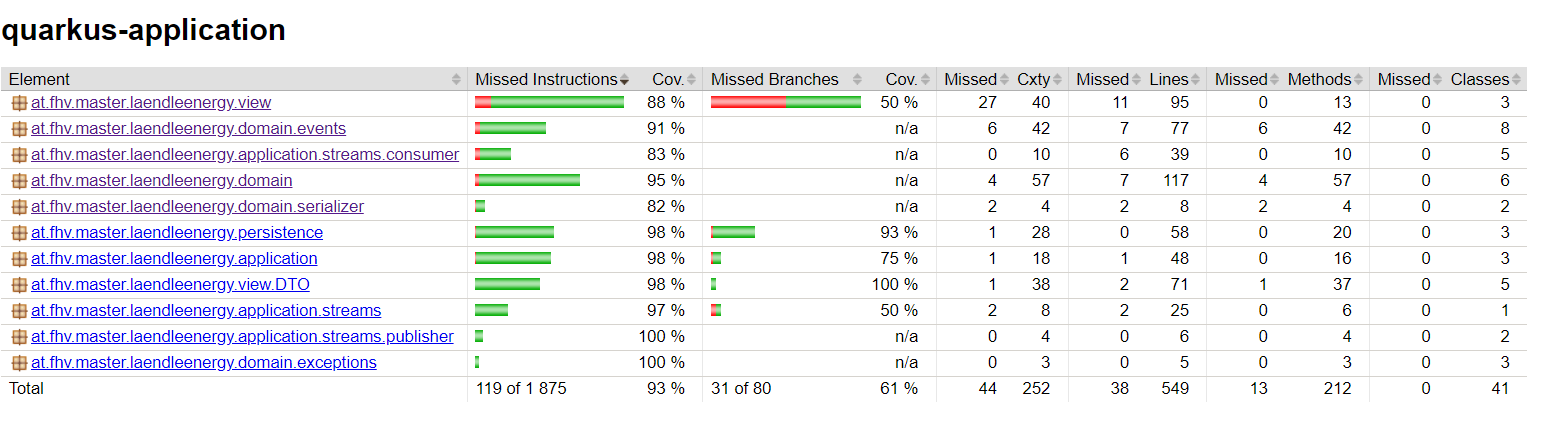
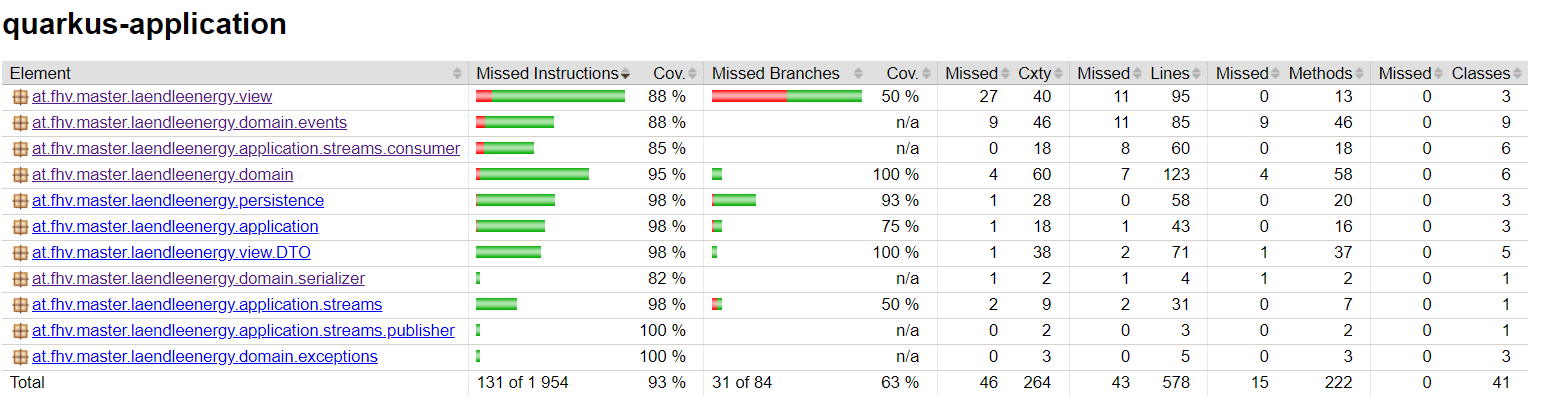
updated test docu

diff --git a/index.md b/index.md
@@ -408,7 +408,7 @@ _Author_: Bianca
 
 #### 2.4.1 Accountmanagement
 
-Figure 8 shows the testing report of the Accountmanagement service. As we can see, 171 tests have been written for this service.
+Figure 8 shows the testing report of the Accountmanagement service. As we can see, 176 tests have been written for this service.
 
 ![Testing Report - Accountmanagement](/images/test-summary_accountmanagement.png) _Figure 8: Testing Report - Accountmanagement_
 
@@ -417,7 +417,7 @@ In Figure 9 on the other hand, the Jacoco report of the Accountmanagement servic
 
 #### 2.4.2 Householdmanagement
 
-In Figure 10 the testing report of the Householdmanagement service is shown. For this service, 130 tests have been written.
+In Figure 10 the testing report of the Householdmanagement service is shown. For this service, 134 tests have been written.
 ![Testing Report - Householdmanagement](/images/test-summary_householdmanagement.png) _Figure 10: Testing Report - Householdmanagement_
 
 Figure 11 illustrates the code coverage achieved by those tests.
